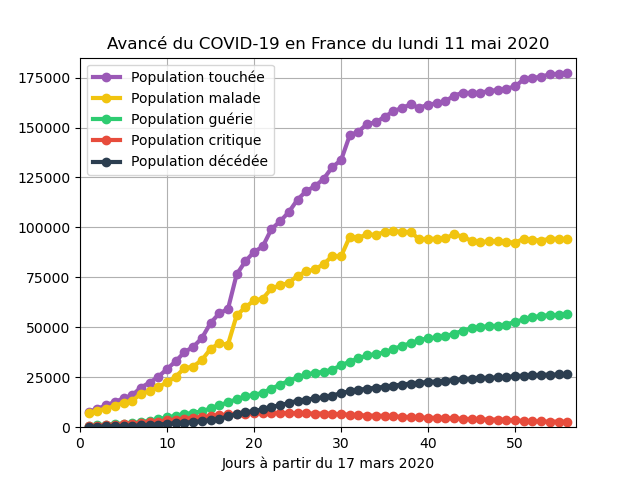
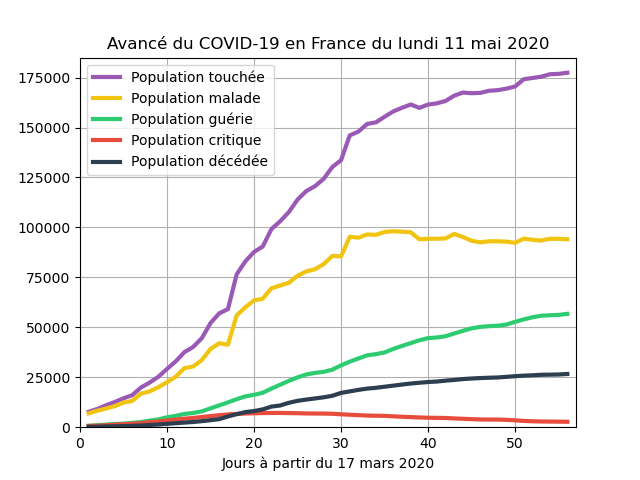
update graph style 📈

diff --git a/main.py b/main.py
@@ -62,27 +62,26 @@ def makeGraph():
 
     os.mkdir("data/" + str(date.today()))
     # Graphe 1
-    plt.plot(tabDate, tabTotalCases, "o-", label="Population touchée", linewidth=3, color="#9b59b6")
-    plt.plot(tabDate, tabActiveCases, "o-", label="Population malade", linewidth=3, color="#f1c40f")
-    plt.plot(tabDate, tabTotalRecovered, "o-", label="Population guérie", linewidth=3, color="#2ecc71")
-    plt.plot(tabDate, tabCritical, "o-", label="Population critique", linewidth=3, color="#e74c3c")
-    plt.plot(tabDate, tabTotalDeaths, "o-", label="Population décédée", linewidth=3, color="#2c3e50")
+    plt.plot(tabDate, tabTotalCases, "-", label="Population touchée", linewidth=3, color="#9b59b6")
+    plt.plot(tabDate, tabActiveCases, "-", label="Population malade", linewidth=3, color="#f1c40f")
+    plt.plot(tabDate, tabTotalRecovered, "-", label="Population guérie", linewidth=3, color="#2ecc71")
+    plt.plot(tabDate, tabCritical, "-", label="Population critique", linewidth=3, color="#e74c3c")
+    plt.plot(tabDate, tabTotalDeaths, "-", label="Population décédée", linewidth=3, color="#2c3e50")
 
-    plt.axis([0, numberOfDay + 1, 0, ceil(
-        (int(cases[0].replace(".", ""))/5000))*5000 + 5000])
+    plt.axis([0, numberOfDay + 1, 0, ceil((int(cases[0].replace(".", ""))/5000))*5000 + 5000])
     plt.legend(loc='upper left')
     plt.grid(True)
     plt.xlabel('Jours à partir du 17 mars 2020')
     plt.title('Avancé du COVID-19 en France du ' + str(date.today().strftime("%A %d %B %Y")))
     plt.savefig('data/' + str(date.today()) + "/" + str(date.today()) + '_1.png')
     plt.clf()
-    
+
     # Graphe 2
-    plt.plot(tabDate[1:], tabNewCases[1:], "o-", label="Population touchée chaque jour", linewidth=3, color="#9b59b6")
-    plt.plot(tabDate[1:], tabNewActive[1:], "o-", label="Population malade chaque jour", linewidth=3, color="#f1c40f")
-    plt.plot(tabDate[1:], tabNewRecovered[1:], "o-", label="Population guérie chaque jour", linewidth=3, color="#2ecc71")
-    plt.plot(tabDate[1:], tabNewCritical[1:], "o-", label="Population critique chaque jour", linewidth=3, color="#e74c3c")
-    plt.plot(tabDate[1:], tabNewDeaths[1:], "o-", label="Population décédée chaque jour", linewidth=3, color="#2c3e50")
+    plt.plot(tabDate[1:], tabNewCases[1:], "-", label="Population touchée chaque jour", linewidth=3, color="#9b59b6")
+    plt.plot(tabDate[1:], tabNewActive[1:], "-", label="Population malade chaque jour", linewidth=3, color="#f1c40f")
+    plt.plot(tabDate[1:], tabNewRecovered[1:], "-", label="Population guérie chaque jour", linewidth=3, color="#2ecc71")
+    plt.plot(tabDate[1:], tabNewCritical[1:], "-", label="Population critique chaque jour", linewidth=3, color="#e74c3c")
+    plt.plot(tabDate[1:], tabNewDeaths[1:], "-", label="Population décédée chaque jour", linewidth=3, color="#2c3e50")
 
     plt.axis([0, numberOfDay + 1, 0, ceil(max(tabNewCases + tabNewActive + tabNewRecovered + tabNewCritical + tabNewDeaths)/1000)*1000 + 1000])
 
@@ -114,7 +113,8 @@ def makeGraph():
     for x in range(0, nbrCountries):
         indexRecovered = str(totalRecovered[x]).find('<td style="font-weight: bold; text-align:right">')
         totalRecovered[x] = str(totalRecovered[x]).replace("N/A", "0,000")
-        totalRecoveredCountries.append(int(re.findall(r"[\d]{1,5},[\d]{3}|[\d]{1,3}", str(totalRecovered[x])[indexRecovered+48:indexRecovered+70])[0].replace(",", "")))
+        totalRecoveredCountries.append(int(re.findall(r"[\d]{1,5},[\d]{3}|[\d]{1,3}", str(
+            totalRecovered[x])[indexRecovered+48:indexRecovered+70])[0].replace(",", "")))
 
     for x in range(0, nbrCountries):
         totalDeathsCountries.append(int(re.findall(
@@ -148,16 +148,14 @@ while True:
     # Parsing des données sur worldometers.info
     p = requests.get('https://www.worldometers.info/coronavirus/')
 
-    indexFrance = p.text.find(
-        '<a class="mt_a" href="country/france/">France</a>')
+    indexFrance = p.text.find('<a class="mt_a" href="country/france/">France</a>')
     indexFranceEnd = indexFrance + p.text[indexFrance:].find("</tr>")
 
     PlaceInWorld = p.text[:indexFranceEnd].count('href="country/')
 
-    cases = re.findall(
-        r'[\d]{1,2}.[\d]{3}.[\d]{3}|[\d]{1,3}.[\d]{3}|\d+', str(p.text[indexFrance:indexFranceEnd]).replace(",", "."))
+    cases = re.findall(r'[\d]{1,2}.[\d]{3}.[\d]{3}|[\d]{1,3}.[\d]{3}|\d+', str(p.text[indexFrance:indexFranceEnd]).replace(",", "."))
     data = ["Total Cases", "New Cases", "Total Deaths",
-            "New Deaths", "Total Recovered", "Active Cases", "Critical", "New Recovered", 
+            "New Deaths", "Total Recovered", "Active Cases", "Critical", "New Recovered",
             "New Active", "New Critical", "PlaceInWorld", "Total Tests", "New Tests"]
     numberOfDay = (date.today()-date(2020, 3, 16)).days
 
@@ -169,7 +167,7 @@ while True:
     # cases[2] = 0 # morts totaux
     # cases[3] = 0 # nouveaux morts
     # cases[4] = 0 # guéris totaux
-    # cases[5] = 0 # malades 
+    # cases[5] = 0 # malades
     # cases[6] = 0 # cas critique/en réanimation
     # cases[7] = 0 # nouveaux guéris
     # cases[8] = 0 # nouveaux malades
@@ -182,6 +180,7 @@ while True:
     f1 = open("data/dataFrance.csv", "r")
     last_line = f1.readlines()[-1].split(',')
     f1.close()
+
     try:
         # Vérifier si toutes les données sont publiées
         if (last_line[0] != str(date.today()) and cases[10] and int(cases[6].replace(".", "")) != int(last_line[7].replace(".", ""))):
@@ -207,8 +206,7 @@ while True:
 
         # Enregistrer les données dans le CSV
         f = open("data/dataFrance.csv", "a+")
-        f.write(str(date.today()) + "," + cases[0] + "," + cases[1] +
-                "," + cases[2] + "," + cases[3] + "," + cases[4] + "," + cases[5] + "," + cases[6] + "," + str(newRecovered) + "," + str(newActive) + "," + str(newCritical) + "," + str(PlaceInWorld) + "," + cases[9] + "," + str(newTests) + "\n")
+        f.write(str(date.today()) + "," + cases[0] + "," + cases[1] + "," + cases[2] + "," + cases[3] + "," + cases[4] + "," + cases[5] + "," + cases[6] + "," + str(newRecovered) + "," + str(newActive) + "," + str(newCritical) + "," + str(PlaceInWorld) + "," + cases[9] + "," + str(newTests) + "\n")
         f.close()
 
         makeTabOfData()
@@ -225,7 +223,8 @@ while True:
             ligne4 = "🔴 " + cases[6].replace(".", ",") + " cas graves " + str(newCritical) + " [" + str(newCriticalPercent) + "%]\n"
         else:
             ligne4 = "🔴 " + cases[6].replace(".", ",") + " cas graves +" + str(newCritical) + " [" + str(newCriticalPercent) + "%]\n"
-        ligne5 = "⚫ " + cases[2].replace(".", ",") + " décès +" + cases[3].replace(".", "") + " [" + str(newDeathPercent) + "%]\n"
+        ligne5 = "⚫ " + cases[2].replace(".", ",") + " décès +" + cases[3].replace(
+            ".", "") + " [" + str(newDeathPercent) + "%]\n"
         if (newTests > 0):
             ligne6 = "💉 " + cases[9].replace(".", ",") + " tests +" + str(newTests) + "\n\n"
         else:
@@ -233,7 +232,7 @@ while True:
         ligne7 = cases[0].replace(".", ",") + " cas totaux +" + cases[1].replace(".", "")
         ligne8 = "\n\nGraphiques📈⏬\n#ConfinementJour" + str(numberOfDay)
         message = ligne1 + ligne2 + ligne3 + ligne4 + ligne5 + ligne6 + ligne7 + ligne8
-        
+
         consumer_key = config.consumer_key
         consumer_secret = config.consumer_secret
         access_token = config.access_token
@@ -241,18 +240,18 @@ while True:
 
         auth = tweepy.OAuthHandler(consumer_key, consumer_secret)
         auth.set_access_token(access_token, access_token_secret)
-         
+
         api = tweepy.API(auth)
-        
+
         api.update_status(message)
-        lastIdTweet = api.user_timeline(count = 1)[0].id
+        lastIdTweet = api.user_timeline(count=1)[0].id
 
         image1 = "data/" + str(date.today()) + "/" + str(date.today()) + "_1.png"
         image2 = "data/" + str(date.today()) + "/" + str(date.today()) + "_2.png"
         image3 = "data/" + str(date.today()) + "/" + str(date.today()) + "_3.png"
         images = (image1, image2, image3)
         media_ids = [api.media_upload(i).media_id_string for i in images]
-        api.update_status(status="📈Évolution du #COVID19 en 🇫🇷", media_ids=media_ids, in_reply_to_status_id = lastIdTweet)
+        api.update_status(status="📈Évolution du #COVID19 en 🇫🇷", media_ids=media_ids, in_reply_to_status_id=lastIdTweet)
         spinner.succeed('Données envoyés ' + time.strftime("%H:%M:%S"))
         spinner.start()
     time.sleep(30)
